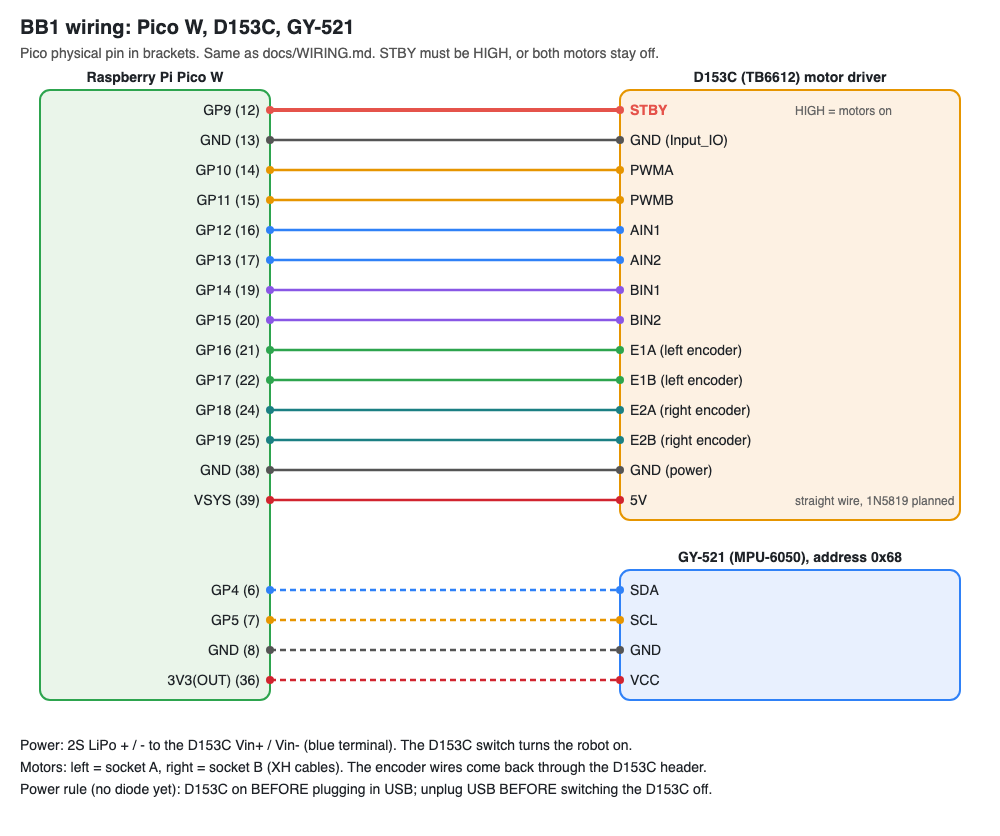
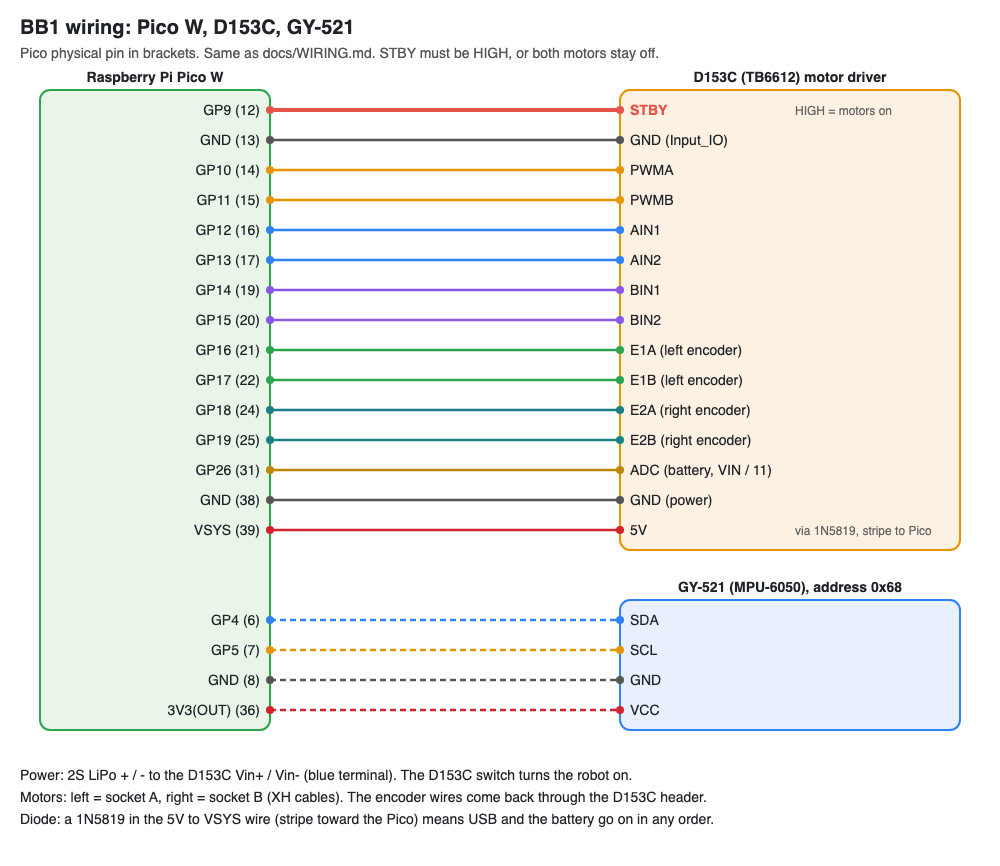
1N5819 diode fitted: power rule gone; battery sense shown as wired
Docs, sketch comments and the wiring diagram (now with the GP26 battery wire)
say USB and the battery can go on in any order. Battery care reflects the
GP26 reading and the 6.6 V cut-out.

diff --git a/tools/make_wiring_svg.py b/tools/make_wiring_svg.py
@@ -24,11 +24,12 @@ D153C = [
     (22, "GP17", "E1B (left encoder)", "#2da44e"),
     (24, "GP18", "E2A (right encoder)", "#1b7f83"),
     (25, "GP19", "E2B (right encoder)", "#1b7f83"),
+    (31, "GP26", "ADC (battery, VIN / 11)", "#bf8700"),
     (38, "GND", "GND (power)", "#555555"),
     (39, "VSYS", "5V", "#d1242f"),
 ]
 # Notes drawn next to some D153C pins
-D153C_NOTES = {"STBY": "HIGH = motors on", "5V": "straight wire, 1N5819 planned"}
+D153C_NOTES = {"STBY": "HIGH = motors on", "5V": "via 1N5819, stripe to Pico"}
 
 GY521 = [
     (6, "GP4", "SDA", "#2f81f7"),
@@ -40,7 +41,7 @@ GY521 = [
 NOTES = [
     "Power: 2S LiPo + / - to the D153C Vin+ / Vin- (blue terminal). The D153C switch turns the robot on.",
     "Motors: left = socket A, right = socket B (XH cables). The encoder wires come back through the D153C header.",
-    "Power rule (no diode yet): D153C on BEFORE plugging in USB; unplug USB BEFORE switching the D153C off.",
+    "Diode: a 1N5819 in the 5V to VSYS wire (stripe toward the Pico) means USB and the battery go on in any order.",
 ]
 
 W, DY = 1000, 30

diff --git a/CLAUDE.md b/CLAUDE.md
@@ -48,9 +48,9 @@ Two-wheel self-balancing robot. Milestone 1 (Pico W + D153C motor driver + MPU-6
 - Raspberry Pi Pico W (RP2040) on a sideways carrier, 4x M2 screws
 - D153C dual motor driver (TB6612) on the other face of the spine, 4x M2.5 screws; Dupont sockets on its header pins
 - GY-521 (MPU-6050) in the base pocket on the Pico side
-- 2S 1300 mAh LiPo strapped to the bottom plate (no voltage sensing yet: check it by hand, never below 3.0 V per cell; see `docs/FLASHING.md`, Battery care)
+- 2S 1300 mAh LiPo strapped to the bottom plate; BB1 reads its voltage (below), still never below 3.0 V per cell (`docs/FLASHING.md`, Battery care)
 - 3D-printed reverse-T top frame (short layout, 84 tall, wire windows); sources in `cad/`
-- Not yet fitted: HC-SR04 (holder goes on the front end), SSD1306 OLED, Pi Zero W (next milestone), 1N5819 diode. Battery voltage: D153C `ADC` pin (VIN/11) wired to GP26 2026-10-24; firmware `battery.h` reads it on core 0, logs `batt_v` (whole pack, log format 6), pages show **volts per cell** (Hector prefers per cell); calibrated factor 12.07 (`BATTERY_DIVIDER`)
+- Not yet fitted: HC-SR04 (holder goes on the front end), SSD1306 OLED, Pi Zero W (next milestone). Fitted: 1N5819 diode in the D153C 5V to VSYS wire (2026-10-28, see Power). Battery voltage: D153C `ADC` pin (VIN/11) wired to GP26 2026-10-24; firmware `battery.h` reads it on core 0, logs `batt_v` (whole pack, log format 6), pages show **volts per cell** (Hector prefers per cell); calibrated factor 12.07 (`BATTERY_DIVIDER`)
 
 ## Pico W pins
 
@@ -73,13 +73,13 @@ Two-wheel self-balancing robot. Milestone 1 (Pico W + D153C motor driver + MPU-6
 | Reserved: HC-SR04 Trig / Echo | GP20 / GP21 | 26 / 27 |
 | Reserved: OLED I2C1 | GP6 / GP7 | 9 / 10 |
 | Reserved: Pi Zero UART | GP0 / GP1 | 1 / 2 |
-| Reserved: battery sense | GP26 | 31 |
+| Battery sense (D153C `ADC`, VIN/11) | GP26 (ADC0) | 31 |
 
 PWM at 10 kHz since 2026-10-24 (was 20 kHz; lower deadband, BUILD_RECORD), `analogWriteRange(255)`. PWMA and PWMB share one PWM slice.
 
-## Power rule (no 1N5819 diode yet)
+## Power (1N5819 diode fitted)
 
-D153C 5V goes straight to VSYS. Switch the D153C on (battery connected) **before** plugging in USB, and unplug USB **before** switching it off. USB alone back-feeds the D153C's 5V regulator. The fix is a 1N5819 in that wire, stripe toward the Pico.
+Since 2026-10-28 a 1N5819 Schottky diode sits in the D153C 5V to VSYS wire, stripe (cathode) toward the Pico. USB can no longer push 5 V backwards into the D153C's regulator, so USB and the battery can go on and off in any order. USB alone powers only the Pico and the IMU: the motors can't run without the battery. (Before the diode the rule was: D153C on before USB, USB out before D153C off.)
 
 ## Toolchain
 

diff --git a/firmware/README.md b/firmware/README.md
@@ -83,7 +83,7 @@ Fix (2026-10-21): the web server now closes each connection after answering (`ro
 Why not the page: arming from the page ties the motors to Wi-Fi (no `/state` for 1 s = disarm), and Wi-Fi hiccups kept cutting the test short. For getting BB1 to balance we leave the page closed: you arm from **serial** over the USB cable (no heartbeat check then) and **logger.py** records over Wi-Fi in the background. If Wi-Fi stalls, the robot keeps the last 10 s, so the logger catches up without losing records. All other cut-outs still work: the arm timer, 45 deg (FALLEN), low battery, IMU errors, late loops, Enter.
 
 **Before you start**
-1. Battery on (D153C switch) **first**, then plug in USB (power rule).
+1. Plug in USB (battery on or off: the diode makes the order safe).
 2. Close every BB1 page tab (phone too), and any serial monitor (only one program can hold the USB port).
 3. Fingers clear of the wheels. Hold the frame, wheels in the air.
 
@@ -258,16 +258,13 @@ Two small Arduino C++ sketches that check each part works before we write the ba
 | **Sketch** | **Checks** | **Needs the battery?** |
 | :-: | :-: | :-: |
 | motor_test | Each motor spins both ways through the D153C; each encoder counts | Yes (D153C switch on) |
-| imu_test | The MPU-6050 answers on I2C and gives sensible readings | Yes for now (see the power rule) |
+| imu_test | The MPU-6050 answers on I2C and gives sensible readings | No (USB alone powers the IMU) |
 
 Board: Raspberry Pi Pico W with the "Raspberry Pi Pico/RP2040" core by Earle F. Philhower (version 6.3.0 used to compile these).
 
-## Power rule (no 1N5819 diode yet)
+## Power (1N5819 diode fitted)
 
-The D153C 5V is wired straight to the Pico's VSYS pin. The Pico already has its own diode on the USB side, so your Mac is protected, but USB alone would push power backwards into the D153C's 5V regulator. Until the diode goes in:
-
-1. Switch the D153C on (battery connected) **before** plugging in USB.
-2. Unplug USB **before** switching the D153C off.
+Since 2026-10-28 a 1N5819 Schottky diode sits in the D153C 5V to VSYS wire, stripe (cathode) toward the Pico. USB can no longer push 5 V backwards into the D153C's regulator, so USB and the battery can go on and off in any order. USB alone powers only the Pico and the IMU: the motors can't run without the battery.
 
 ## Fastest way: drag and drop the ready-made UF2
 

diff --git a/docs/FLASHING.md b/docs/FLASHING.md
@@ -2,21 +2,17 @@
 
 How to get a sketch onto BB1, and how to see it running.
 
-## 0. Power order (every time, until the 1N5819 diode is fitted)
+## 0. Power
 
-1. Battery connected, **D153C switch on**.
-2. **Then** plug USB into the Mac.
-3. When done: **unplug USB first**, then switch the D153C off.
+Since 2026-10-28 a 1N5819 Schottky diode sits in the D153C 5V to VSYS wire, stripe (cathode) toward the Pico. USB can no longer push 5 V backwards into the D153C's regulator, so USB and the battery can go on and off in any order. USB alone powers only the Pico and the IMU: the motors can't run without the battery. For flashing, the battery can stay off: `flash.py`'s lying-down check only needs the IMU.
 
-USB alone pushes 5 V backwards into the D153C's regulator. The diode will fix this later.
+### Battery care (2S 1300 mAh LiPo)
 
-### Battery care (2S 1300 mAh LiPo, no voltage sensing yet)
-
-Leaving BB1 powered on the battery while you work is fine: with the motors off (STBY low) it draws roughly 50 to 100 mA (Pico W with Wi-Fi, IMU, the D153C's regulator), so the pack lasts many hours. But nothing on the robot watches the voltage yet, so:
+Leaving BB1 powered on the battery while you work is fine: with the motors off (STBY low) it draws roughly 50 to 100 mA (Pico W with Wi-Fi, IMU, the D153C's regulator), so the pack lasts many hours. BB1 reads the pack voltage (D153C `ADC` pin to GP26, `battery.h`): the pages show volts per cell, orange under 3.5 V, and while balancing it disarms under 3.3 V per cell (6.6 V) and won't arm again. While it sits disarmed nothing switches it off, so:
 
 - Keep each cell above about 3.5 V (7.0 V for the pack) and never let it go below 3.0 V per cell (6.0 V): that damages a LiPo for good.
-- Check it with a LiPo checker or multimeter on the balance plug every couple of hours of use.
-- Unplug the battery when you walk away or overnight (USB out first).
+- Watch the battery on the page; check the cells with a LiPo checker on the balance plug now and then (the page shows the average of the two).
+- Unplug the battery when you walk away or overnight.
 - For storage longer than a few days, charge or discharge to about 3.8 V per cell.
 
 The battery voltage divider (docs/FUTURE_INTEGRATIONS.md) will let the page show and log the voltage.

diff --git a/README.md b/README.md
@@ -63,7 +63,7 @@ arduino-cli upload -p /dev/cu.usbmodemXXXX --fqbn rp2040:rp2040:rpipicow:flash=2
 
 Or drag `firmware/uf2/bb1.ino.uf2` onto the Pico in BOOTSEL mode (its own-network password is the template's `change-me-please`). Full guide, Arduino IDE steps and troubleshooting: [docs/FLASHING.md](docs/FLASHING.md). Python tools: [docs/TOOLS.md](docs/TOOLS.md).
 
-> **Safety.** With auto-arm on, BB1 starts driving its wheels 1 s after it's held upright and still: lay it down to carry it (a lift detector stops the wheels if they spin up in the air; see [docs/POWER_ON.md](docs/POWER_ON.md)). Every motor run stops by itself (45 deg fall cut-out, arm timer, STOP). **Power rule (no 1N5819 diode yet):** switch the D153C on before plugging in USB, and unplug USB before switching it off.
+> **Safety.** With auto-arm on, BB1 starts driving its wheels 1 s after it's held upright and still: lay it down to carry it (a lift detector stops the wheels if they spin up in the air; see [docs/POWER_ON.md](docs/POWER_ON.md)). Every motor run stops by itself (45 deg fall cut-out, arm timer, STOP). **Power:** a 1N5819 diode in the 5V to VSYS wire (2026-10-28) makes USB and the battery safe in any order.
 
 ## Repo layout
 
@@ -84,7 +84,8 @@ CLAUDE.md       project facts and working rules for Claude Code
 - [x] Balance loop (PID) tuned on the floor
 - [x] Speed / position loop, heading hold, auto-arm, battery voltage
 - [ ] Milestone 2: drive from the web page
-- [ ] HC-SR04, OLED, 1N5819 diode
+- [x] 1N5819 diode in the 5V to VSYS wire (2026-10-28)
+- [ ] HC-SR04, OLED
 - [ ] Pi Zero W + camera
 
 History: [docs/CHANGELOG.md](docs/CHANGELOG.md) and [docs/SESSION_LOG.md](docs/SESSION_LOG.md).

diff --git a/docs/FUTURE_INTEGRATIONS.md b/docs/FUTURE_INTEGRATIONS.md
@@ -6,8 +6,8 @@ This file keeps the pin and status table the firmware still uses. Wiring detail:
 
 | Part | Pins | Status |
 |---|---|---|
-| Battery voltage (D153C `ADC` pin, no divider needed) | GP26 (ADC0), pin 31 | wired and flashed 2026-10-24 (`battery.h`); calibrated to a meter (12.07). Cut-out written 2026-10-25, not flashed: under 6.6 V with a reading present disarms and will not arm (`REASON_BATTERY`); no sense wire skips the check |
+| Battery voltage (D153C `ADC` pin, no divider needed) | GP26 (ADC0), pin 31 | wired and flashed 2026-10-24 (`battery.h`); calibrated to a meter (12.07). Cut-out flashed 2026-10-25: under 6.6 V with a reading present disarms and will not arm (`REASON_BATTERY`); no sense wire skips the check |
 | SSD1306 OLED | I2C1: GP6 SDA / GP7 SCL, pins 9 / 10 | not fitted |
 | Raspberry Pi Zero W + camera | UART0: GP0 TX / GP1 RX, pins 1 / 2 | next big milestone |
 | HC-SR04 distance sensor | GP20 Trig / GP21 Echo, pins 26 / 27 | holder printed, not wired |
-| 1N5819 diode (D153C 5V to VSYS) | power wire | needed before the power rule can go |
+| 1N5819 diode (D153C 5V to VSYS) | power wire | fitted 2026-10-28, stripe toward the Pico: the power rule is gone |

diff --git a/docs/CHANGELOG.md b/docs/CHANGELOG.md
@@ -4,11 +4,15 @@ Newest first.
 
 ## Open items
 
-- 1N5819 diode in the D153C 5V to VSYS wire (follow the power rule until then)
 - Measure counts per wheel turn cleanly (520 assumed)
 - Mount and wire the HC-SR04 on the front end
 - Battery cradle (record the pack's size and capacity)
 
+
+## 2026-10-28 - 1N5819 diode fitted, power rule gone
+
+- 1N5819 Schottky diode soldered into the D153C 5V to VSYS wire, stripe toward the Pico. USB no longer back-feeds the D153C's 5V regulator, so USB and the battery go on and off in any order
+- Docs: `CLAUDE.md` (Hardware, pins, Power), `docs/WIRING.md`, `docs/FLASHING.md`, `firmware/README.md`, `README.md`, `docs/FUTURE_INTEGRATIONS.md`, the wiring diagram, sketch comments. Battery care in `FLASHING.md` now says BB1 reads the battery (GP26, since 2026-10-24); the pin table lists GP26 as wired, not reserved. The diagram now shows the battery sense wire
 ## 2026-10-27 - `GET /api` (milestone 3 step 2), not flashed yet
 
 - **Why:** so a program or an AI agent can discover every endpoint, its arguments, whether it moves the wheels, and the limits (drive speed, command length, gain ranges) without reading `docs/API.md`

diff --git a/docs/WIRING.md b/docs/WIRING.md
@@ -11,10 +11,10 @@ The picture is drawn from the tables below by `tools/make_wiring_svg.py` (`wirin
 | From | To | Notes |
 |---|---|---|
 | 2S LiPo + / - | D153C Vin+ / Vin- (blue terminal) | D153C switch turns the robot on |
-| D153C 5V | Pico VSYS (39) | Straight wire for now; a 1N5819 (stripe toward the Pico) is planned |
+| D153C 5V | Pico VSYS (39) | Through a 1N5819 diode, stripe toward the Pico (2026-10-28) |
 | D153C GND | Pico GND (38) | Common ground |
 
-**Power rule until the diode is in:** switch the D153C on before plugging in USB, and unplug USB before switching it off.
+**Power order:** none needed since the diode went in. Since 2026-10-28 a 1N5819 Schottky diode sits in the D153C 5V to VSYS wire, stripe (cathode) toward the Pico. USB can no longer push 5 V backwards into the D153C's regulator, so USB and the battery can go on and off in any order. USB alone powers only the Pico and the IMU: the motors can't run without the battery.
 
 ## D153C to Pico
 
